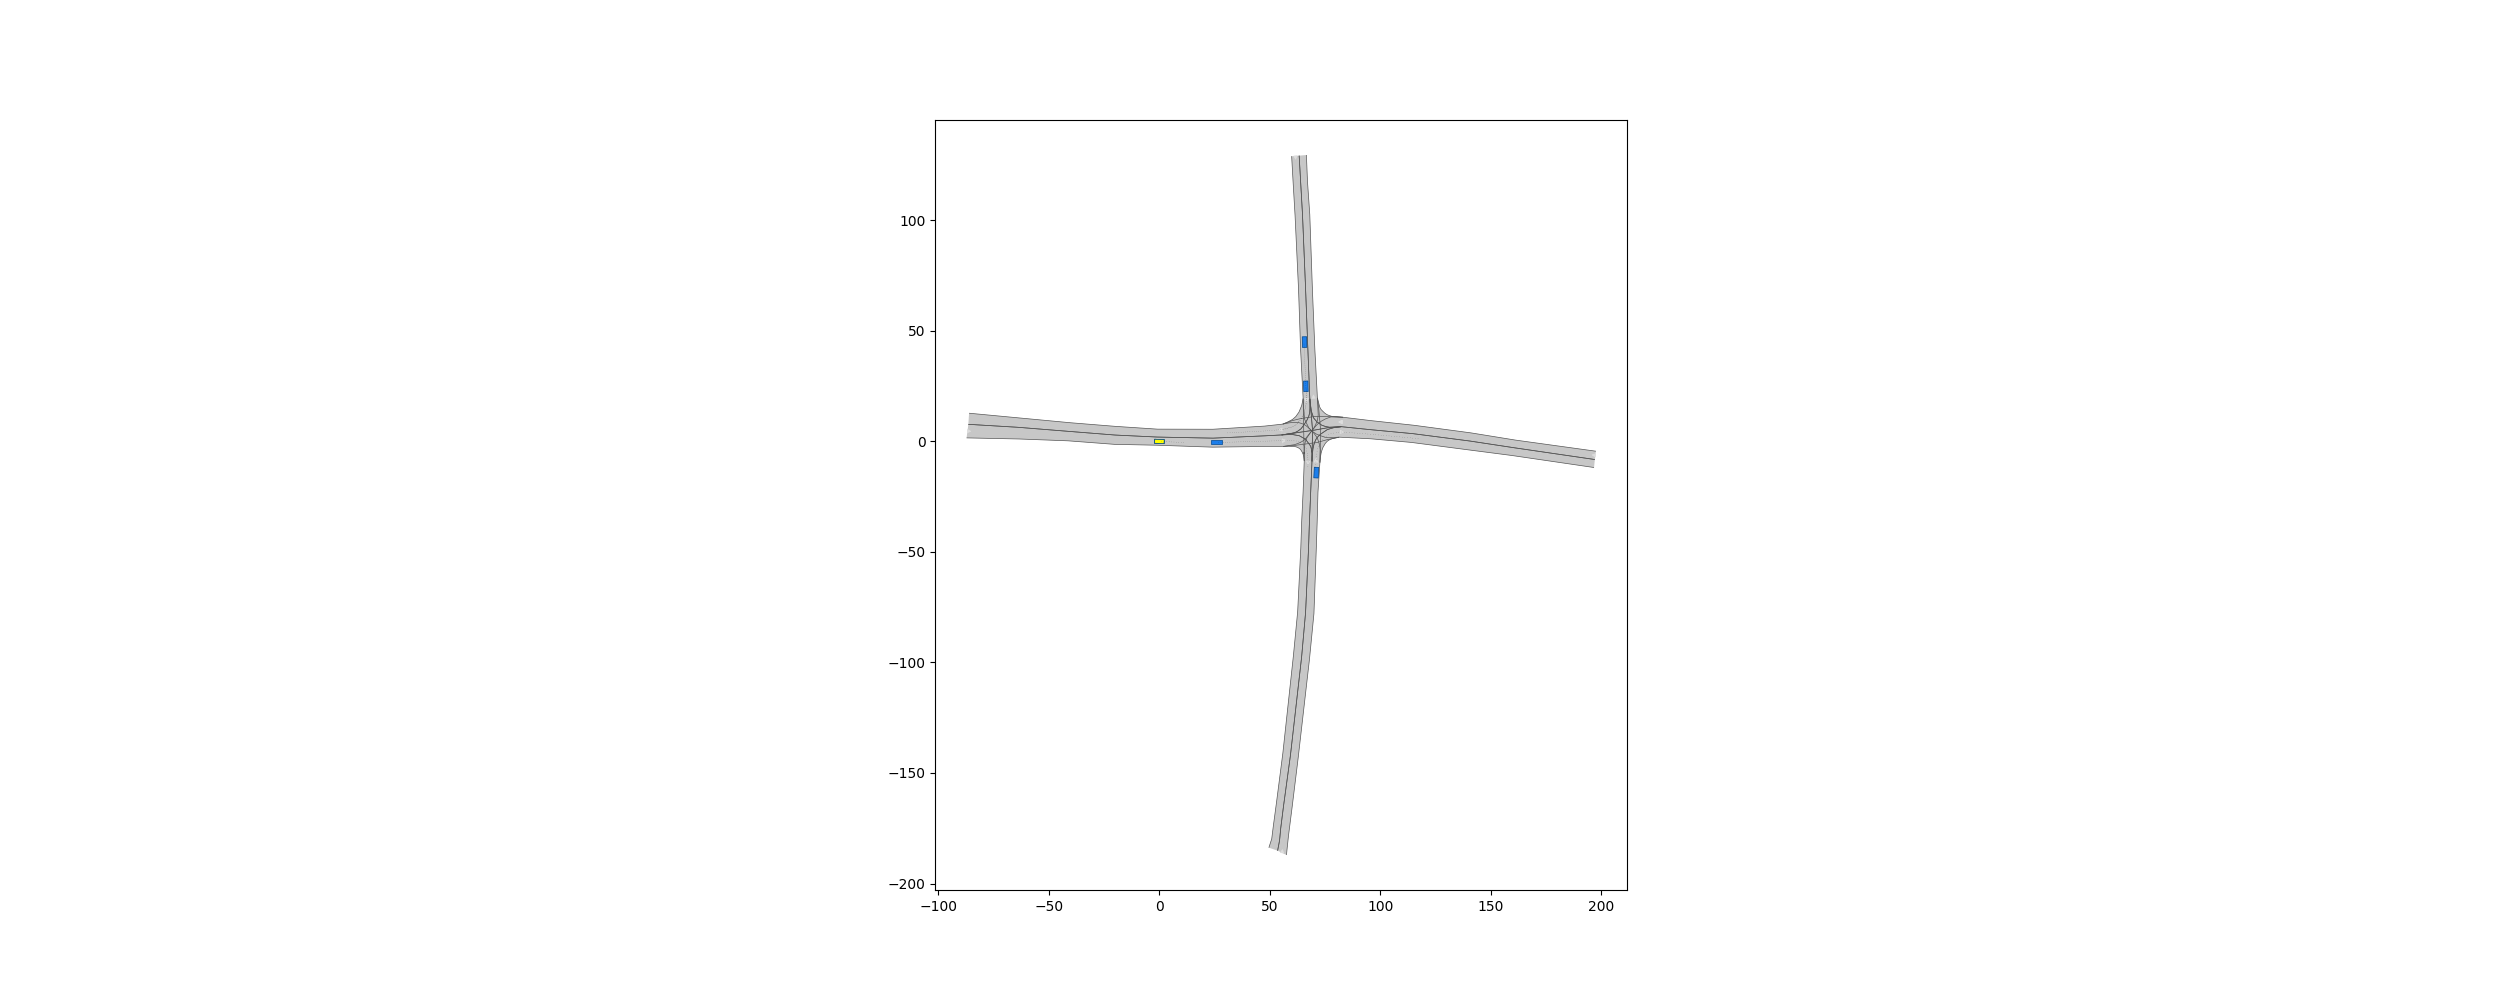
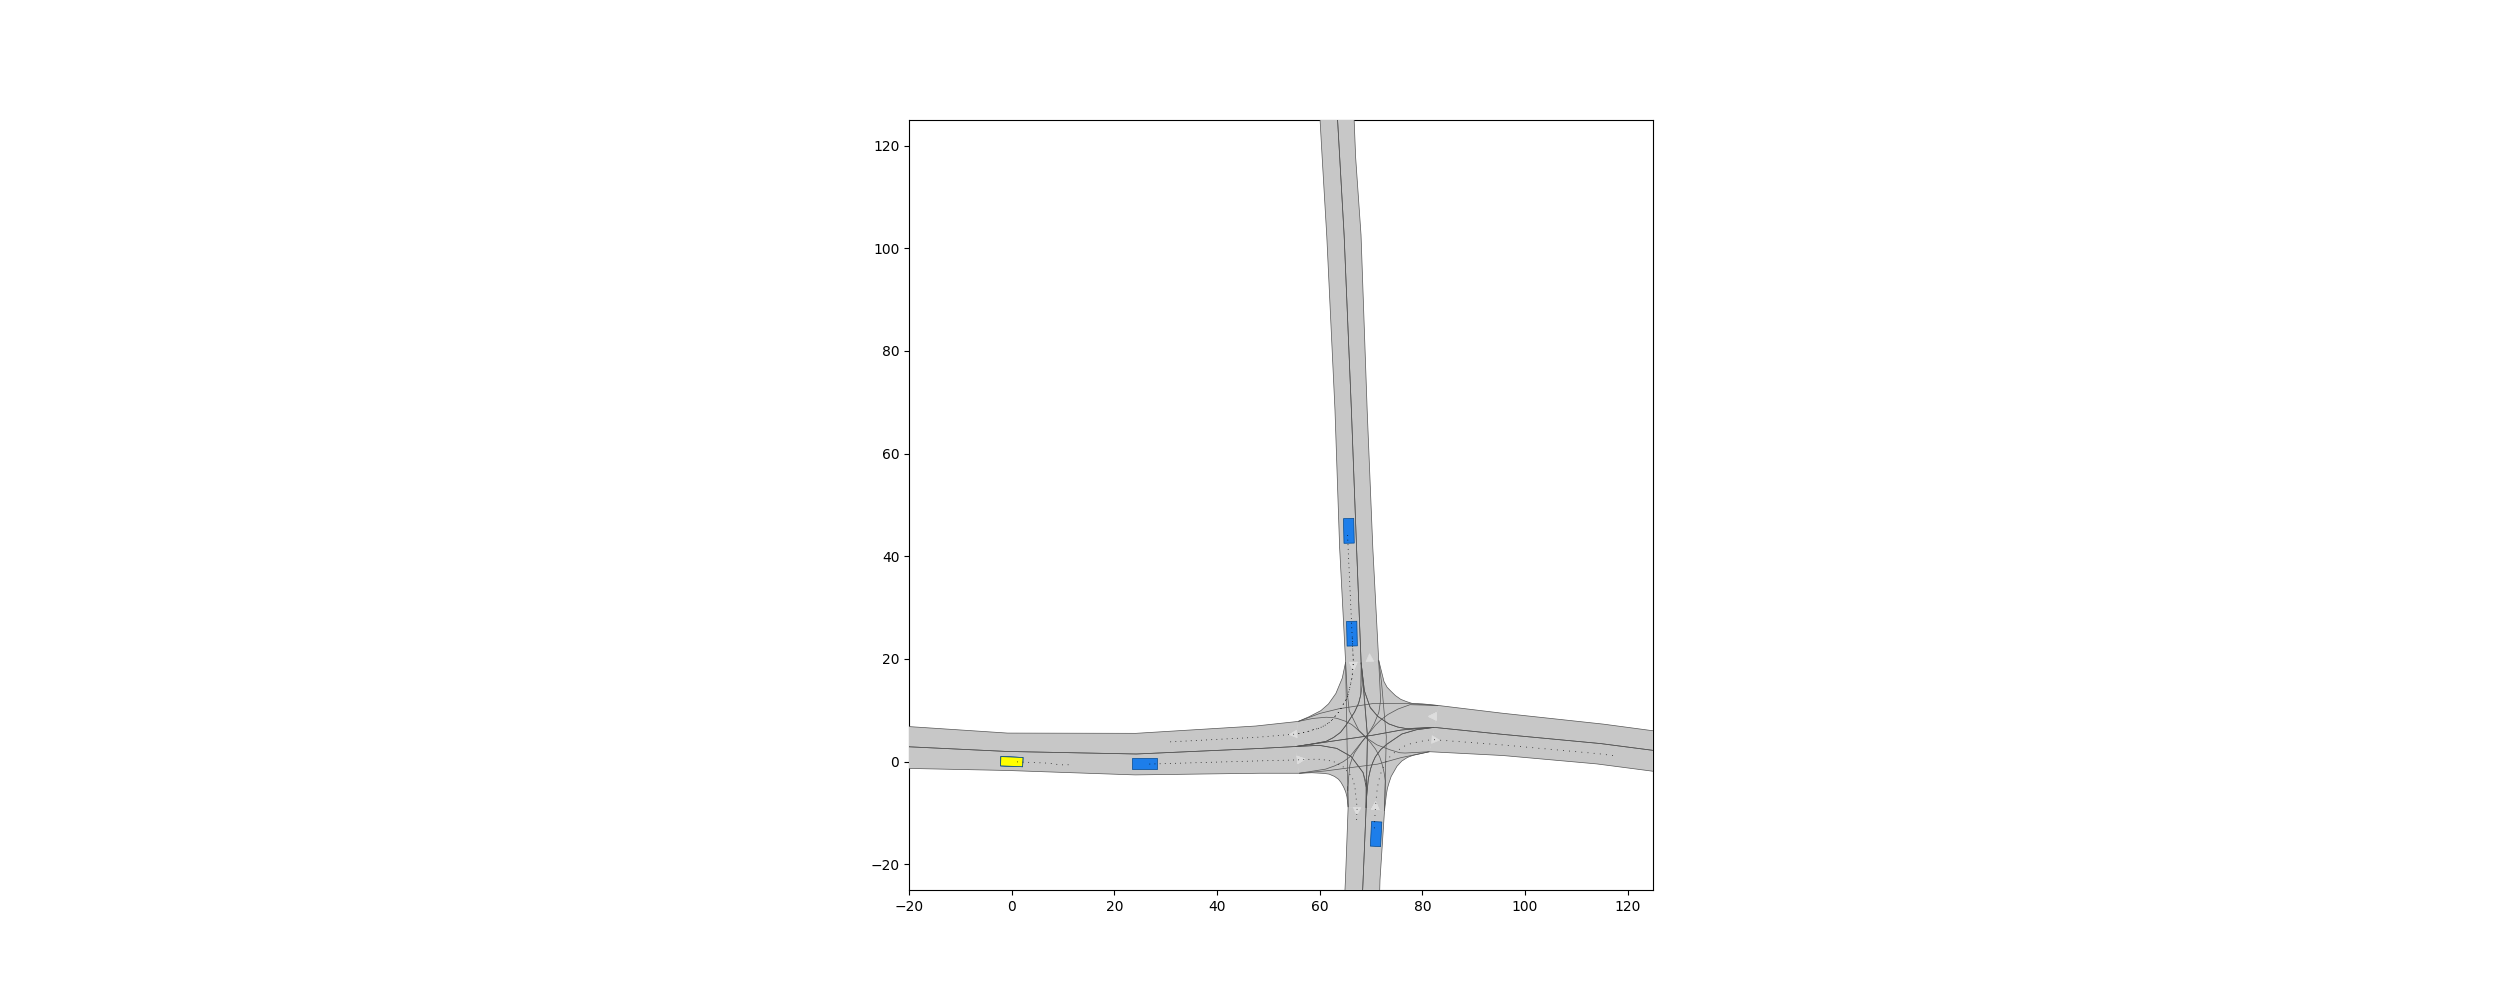
opt ani

diff --git a/generate_cr_scenarios.py b/generate_cr_scenarios.py
@@ -92,7 +92,7 @@ os.makedirs(output_fig_path, exist_ok=True)
 # Render each time step and save as figures
 for i in range(len(sample)):
     plt.figure(figsize=(25, 10))
-    rnd = MPRenderer()
+    rnd = MPRenderer(plot_limits=[-20, 125, -25, 125]) # change this to different scenarios
     rnd.draw_params.time_begin = i
     scenario.draw(rnd)
 
